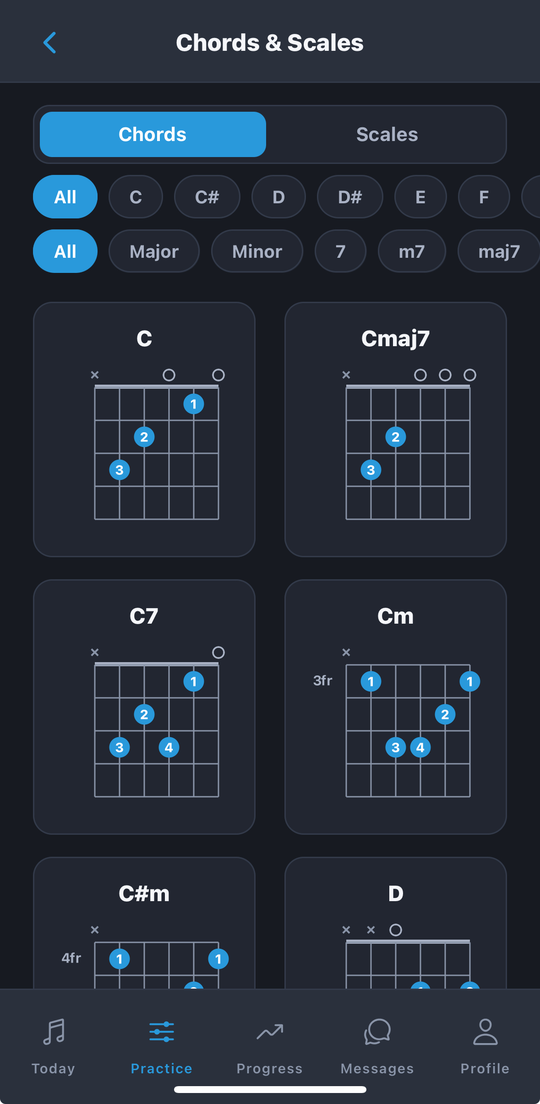
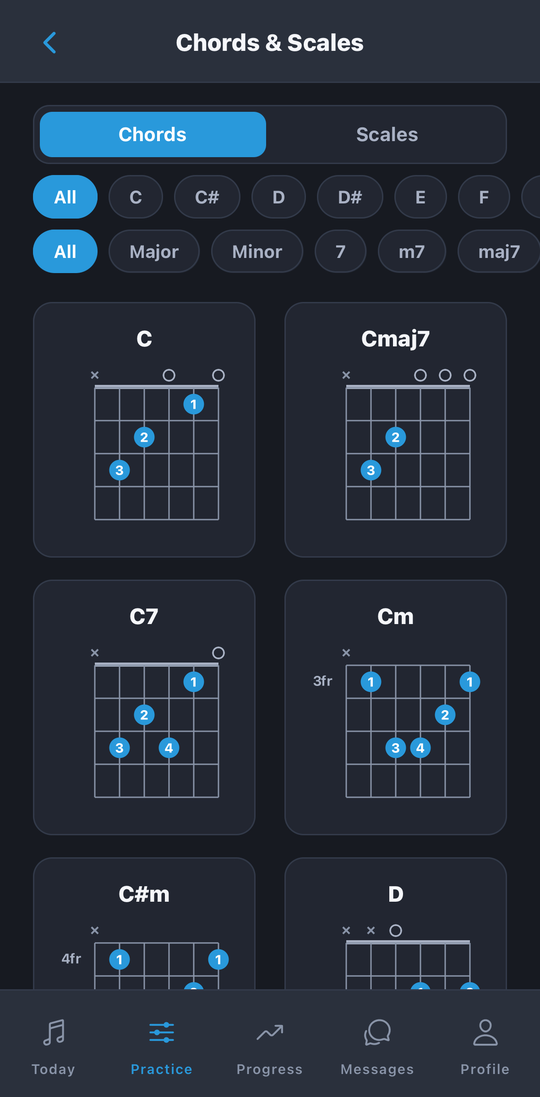
Crop the home indicator off the site screenshots
The white pill under the tab bar reads as a stray line once a screenshot is on
a web page, away from the phone that explains it.

Detected rather than cropped at a fixed offset: the sources were hand-cropped
to three different heights, so one number would have clipped the tab bar on one
image and left a sliver of the pill on another. It finds the bright run across
the middle third of the bottom rows and cuts a few pixels above it.

Squaring the three up to one size now PADS the short ones instead of cropping
the tall ones. Levelling down cut into the tab bar and clipped its labels — the
first attempt at this shipped that. The padding is the median colour of each
image's own bottom row, which is flat tab-bar background, so the join doesn't
show.

diff --git a/web/index.html b/web/index.html
@@ -179,7 +179,7 @@
     <a class="cta ghost" href="#teachers">For teachers →</a>
     <span class="badge">Free on iPhone · iOS 15.1 or later</span>
   </div>
-  <div class="heroGlow"><img class="phone" src="/img/shot-today.png" width="540" height="1104"
+  <div class="heroGlow"><img class="phone" src="/img/shot-today.png" width="540" height="1097"
     alt="Prova's Today screen — a three-day streak, the week so far, and nine exercises to work through"></div>
 </div>
 
@@ -254,11 +254,11 @@
   <h2 style="text-align:center">A look inside</h2>
   <p class="lead" style="text-align:center;margin-left:auto;margin-right:auto">The day's plan, the notes your teacher left, and the chords to go with them.</p>
   <div class="shots">
-    <img class="phone" src="/img/shot-today.png" width="540" height="1104" loading="lazy"
+    <img class="phone" src="/img/shot-today.png" width="540" height="1097" loading="lazy"
       alt="Today's practice: a three-day streak, nine exercises and the day's first warm-up">
-    <img class="phone" src="/img/shot-notes.png" width="540" height="1104" loading="lazy"
+    <img class="phone" src="/img/shot-notes.png" width="540" height="1097" loading="lazy"
       alt="Notes and feedback: what the teacher wrote after each lesson, with attendance">
-    <img class="phone" src="/img/shot-chords.png" width="540" height="1104" loading="lazy"
+    <img class="phone" src="/img/shot-chords.png" width="540" height="1097" loading="lazy"
       alt="The chord library: diagrams for C, Cmaj7, C7, Cm and more, filterable by root and type">
   </div>
 </section>

diff --git a/scripts/make-site-screenshots.py b/scripts/make-site-screenshots.py
@@ -33,6 +33,22 @@ SHOTS = [
 ]
 
 
+# Where to cut so the home indicator goes. Detected rather than hardcoded: the
+# sources were hand-cropped to different heights, so a fixed offset would clip
+# the tab bar on one and leave a sliver of the pill on another. Returns the row
+# to crop at, or None if no bar is found (already trimmed, or not an iPhone).
+def home_indicator_top(im):
+    g = im.convert('L')
+    w, h = g.size
+    px = g.load()
+    xs = range(w // 3, 2 * w // 3, 4)      # middle third only — the pill is centred
+    rows = [y for y in range(h - 1, int(h * 0.88), -1)
+            if sum(1 for x in xs if px[x, y] > 170) / len(xs) > 0.85]
+    if not rows:
+        return None
+    return max(0, min(rows) - 4)           # a few px of clearance above the pill
+
+
 def main():
     if not os.path.isdir(SRC):
         print(f'No such folder: {SRC}')
@@ -45,24 +61,41 @@ def main():
     if not found:
         raise SystemExit(1)
 
-    # The sources were cropped by hand and differ by about 1% in height, which
-    # left the row on the site sitting at three slightly different heights.
-    # Everything is trimmed from the bottom — the home-indicator strip — to the
-    # shortest of them, so they line up exactly.
+    # Two trims, both from the bottom.
+    #
+    # First the iOS home indicator — the white pill under the tab bar. It reads
+    # as a stray white line once the screenshot is on a web page, away from the
+    # phone that explains it.
+    #
+    # Then, because the sources were cropped by hand and differ by about 1% in
+    # height, they're squared up to a common size so the row lines up exactly.
+    # By PADDING the short ones, not cropping the tall ones: levelling down cut
+    # into the tab bar and clipped its labels. The padding is sampled from each
+    # image's own bottom edge — the tab bar is a flat colour there, so the join
+    # is invisible.
     scaled = []
     for src_name, out_name, what in found:
         im = Image.open(os.path.join(SRC, src_name)).convert('RGB')
+        cut = home_indicator_top(im)
+        if cut is not None:
+            im = im.crop((0, 0, im.width, cut))
         h = round(im.height * (WIDTH / im.width))
         scaled.append((im.resize((WIDTH, h), Image.LANCZOS), out_name, what))
-    height = min(im.height for im, _, _ in scaled)
+    height = max(im.height for im, _, _ in scaled)
 
     for im, out_name, what in scaled:
-        if im.height > height:
-            im = im.crop((0, 0, WIDTH, height))
+        pad = height - im.height
+        if pad > 0:
+            # Median of the bottom row, so one stray bright pixel can't pick it.
+            row = [im.getpixel((x, im.height - 1)) for x in range(0, WIDTH, 3)]
+            fill = tuple(sorted(c[i] for c in row)[len(row) // 2] for i in range(3))
+            canvas = Image.new('RGB', (WIDTH, height), fill)
+            canvas.paste(im, (0, 0))
+            im = canvas
         dest = os.path.join(OUT, out_name)
         im.save(dest, optimize=True)
         kb = os.path.getsize(dest) // 1024
-        print(f'  {out_name:18} {WIDTH}x{height}  {kb} KB   ({what})')
+        print(f'  {out_name:18} {WIDTH}x{height}  {kb} KB  pad {pad}px  ({what})')
 
     print(f'\n{len(scaled)} images at {WIDTH}x{height} -> {OUT}')
 
